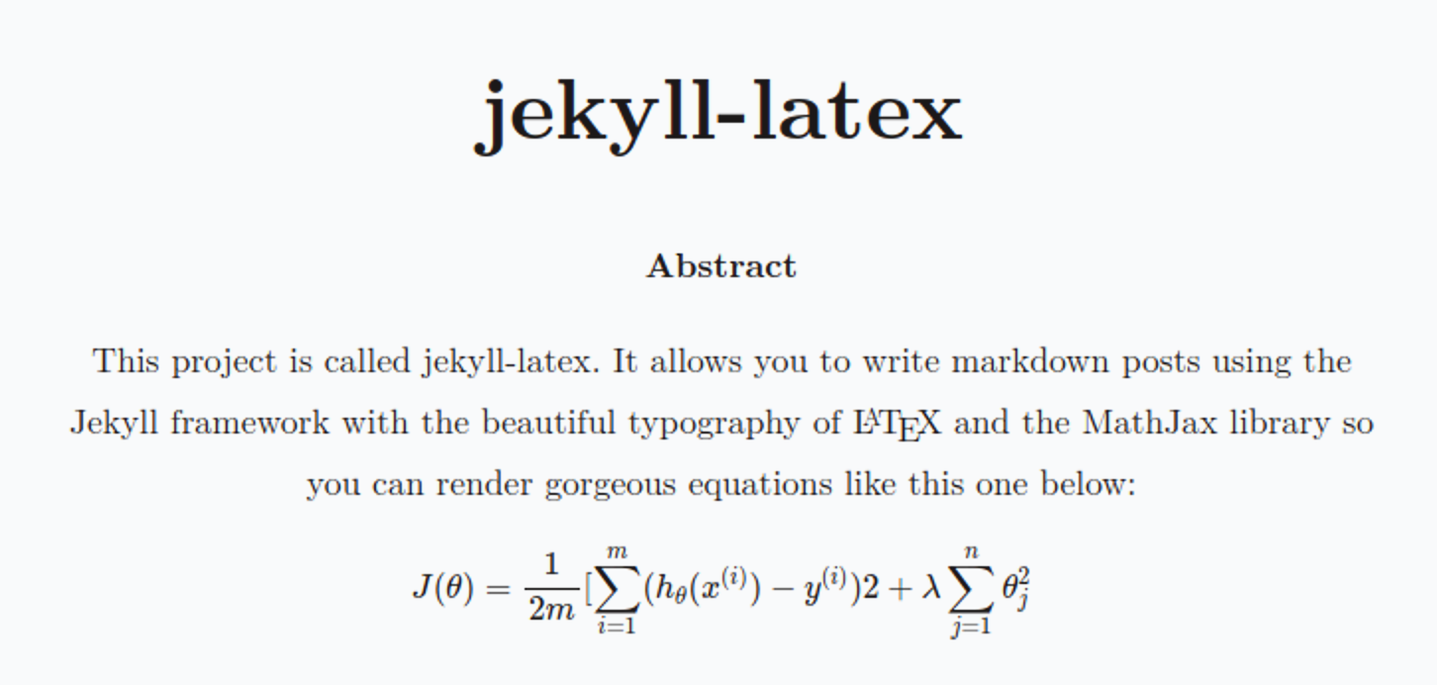
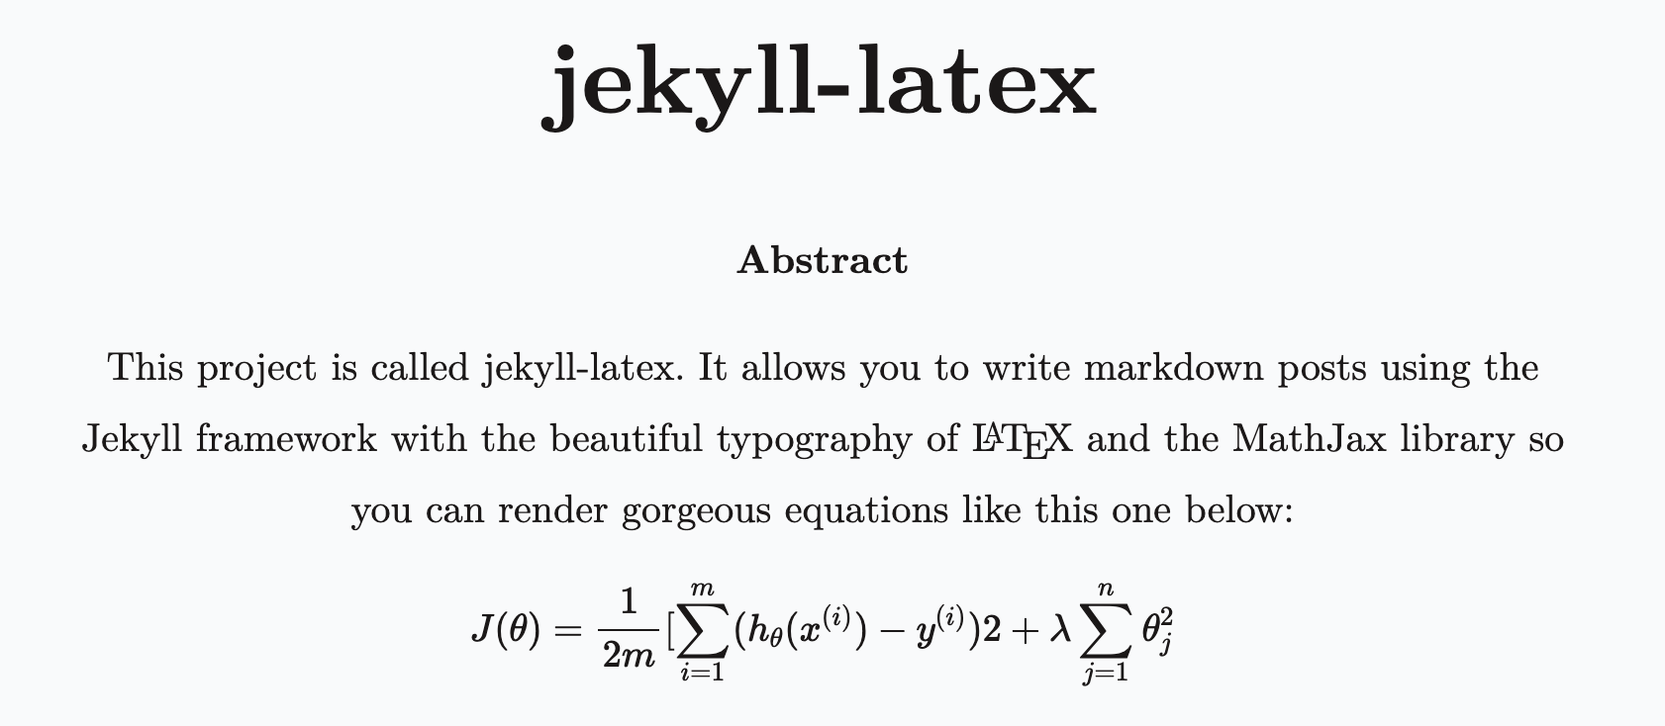
Update site

diff --git a/assets/core.css b/assets/core.css
@@ -3,4 +3,4 @@
  *
  * Source: https://github.com/vincentdoerig/latex-css
  * Licensed under MIT (https://github.com/vincentdoerig/latex-css/blob/master/LICENSE)
-*/@font-face{font-family:"Latin Modern";font-style:normal;font-weight:normal;font-display:swap;src:url("./fonts/LM-regular.woff2") format("woff2"),url("./fonts/LM-regular.woff") format("woff"),url("./fonts/LM-regular.ttf") format("truetype")}@font-face{font-family:"Latin Modern";font-style:italic;font-weight:normal;font-display:swap;src:url("./fonts/LM-italic.woff2") format("woff2"),url("./fonts/LM-italic.woff") format("woff"),url("./fonts/LM-italic.ttf") format("truetype")}@font-face{font-family:"Latin Modern";font-style:normal;font-weight:bold;font-display:swap;src:url("./fonts/LM-bold.woff2") format("woff2"),url("./fonts/LM-bold.woff") format("woff"),url("./fonts/LM-bold.ttf") format("truetype")}@font-face{font-family:"Latin Modern";font-style:italic;font-weight:bold;font-display:swap;src:url("./fonts/LM-bold-italic.woff2") format("woff2"),url("./fonts/LM-bold-italic.woff") format("woff"),url("./fonts/LM-bold-italic.ttf") format("truetype")}*,*::before,*::after{box-sizing:border-box}body,h1,h2,h3,h4,p,ul[class],ol[class],li,figure,figcaption,dl,dd{margin:0}html{font-size:1rem;scroll-behavior:smooth}body{font-family:"Latin Modern", Georgia, Cambria, "Times New Roman", Times, serif;line-height:1.8;max-width:80ch;min-height:100vh;overflow-x:hidden;margin:0 auto;padding:2rem 1.25rem;counter-reset:theorem;counter-reset:definition;color:#1b1818;background-color:#f9fafb;text-rendering:optimizeLegibility;display:flex;flex-direction:column;height:100%}main{flex:1 0 auto}p{text-align:justify;hyphens:auto;-webkit-hyphens:auto;-moz-hyphens:auto;margin-top:1rem}a:not([class]){text-decoration-skip-ink:auto}a,a:visited{color:#a00}a:focus{outline-offset:2px;outline:2px solid #1660f3}img{max-width:100%;display:block}input,button,textarea,select{font:inherit}textarea{width:100%}article>*+*{margin-top:1em}code,pre,kbd{font-family:Menlo, Monaco, Consolas, "Liberation Mono", "Courier New", monospace;font-size:85%}pre{padding:1rem 1.4rem;max-width:100%;overflow:auto;border-radius:4px;background:#e8edf2}pre code{font-size:95%;position:relative}kbd{background:#fff;border:1px solid #afb3b6;border-radius:2px;padding:2px 4px;font-size:75%}table{border-collapse:collapse;border-spacing:0;width:100%;max-width:100%}th,td{text-align:left;padding:0.5rem}td{border-bottom:1px solid #d9d9d9}thead th{border-bottom:2px solid #b3b3b3}tfoot th{border-top:2px solid #b3b3b3}h1:first-child{text-align:center}article .markdown-toc ol,article ul{counter-reset:item;padding-left:2rem}article .markdown-toc ol li,article ul li{display:block}article .markdown-toc ol li:before,article ul li:before{content:counters(item,".") " ";counter-increment:item;padding-right:0.85rem}dl dd{text-align:center}.theorem{counter-increment:theorem;display:block;margin:12px 0;font-style:italic}.theorem::before{content:"Theorem " counter(theorem) ". ";font-weight:bold;font-style:normal}.lemma{counter-increment:theorem;display:block;margin:12px 0;font-style:italic}.lemma::before{content:"Lemma " counter(theorem) ". ";font-weight:bold;font-style:normal}.proof{display:block;margin:12px 0;font-style:normal;position:relative}.proof::before{content:"Proof. " attr(title);font-style:italic}.proof:after{content:"◾";position:absolute;right:-12px;bottom:-2px}.definition{counter-increment:definition;display:block;margin:12px 0;font-style:normal}.definition::before{content:"Definition " counter(definition) ". ";font-weight:bold;font-style:normal}.author{margin:0.85rem 0;font-variant-caps:small-caps;text-align:center}.abstract,.abstract p{text-align:center}.abstract{margin:2.25rem 0}.latex span:nth-child(1){text-transform:uppercase;font-size:0.75em;vertical-align:0.28em;margin-left:-0.48em;margin-right:-0.15em;line-height:1ex}.latex span:nth-child(2){text-transform:uppercase;vertical-align:-0.5ex;margin-left:-0.1667em;margin-right:-0.125em;line-height:1ex}h1{font-size:2.5rem;line-height:3.25rem;margin-bottom:1.625rem}h2{font-size:1.7rem;line-height:2rem;margin-top:3rem}h3{font-size:1.4rem;margin-top:2.5rem}h4{font-size:1.2rem;margin-top:2rem}h5{font-size:1rem;margin-top:1.8rem}h6{font-size:1rem;font-style:italic;font-weight:normal;margin-top:2.5rem}h3,h4,h5,h6{line-height:1.625rem}h1+h2{margin-top:1.625rem}h2+h3,h3+h4,h4+h5{margin-top:0.8rem}h5+h6{margin-top:-0.8rem}h2,h3,h4,h5,h6{margin-bottom:0.8rem}.logo{position:relative;margin:0 auto 35px;text-align:center;animation-duration:0.7s;animation-fill-mode:both;animation-name:bounce;-webkit-animation-duration:0.7s;-webkit-animation-fill-mode:both;-webkit-animation-name:bounce}.logo a{background:#ddd url("gravatar_wrapper.png");color:#000;text-decoration:none;font-weight:700;height:100px;width:100px;font-size:1.5em;border-radius:100%;display:inline-block;text-align:center;line-height:100px;border:5px solid #fff;box-sizing:border-box}.logo a:hover,.logo a:focus{background:#f14e32}.logo a:hover+.logo-prompt,.logo a:focus+.logo-prompt{display:inline-block !important}.logo a .gravatar{margin:5px auto;-webkit-border-radius:50%;-moz-border-radius:50%;border-radius:50%}@media (max-width: 480px){.logo a:hover+.logo-prompt,.logo a:focus+.logo-prompt{display:none !important}}.logo .logo-prompt{position:absolute;display:none;vertical-align:middle;padding:5px;border-radius:3px;background:#666;background:rgba(0,0,0,0.5);margin-left:15px;color:#fff;font-size:0.8235em;text-align:center;line-height:1.2;top:50%;margin-top:-10px}.logo .logo-prompt:before{content:"";border-width:5px 5px 5px 0;border-style:solid;border-color:transparent #666;border-color:transparent rgba(0,0,0,0.5);position:absolute;top:50%;left:-5px;margin-top:-5px}section{max-width:500px;margin:0 auto 50px auto}section ul{list-style:none;margin:0;padding:0}section ul li{margin:25px 0}section ul li .title{max-width:100%;word-wrap:normal !important}section ul li a{text-decoration:none;border:0;color:#000;box-sizing:border-box}section ul li .post-date{float:right;margin:0 0 0 20px}section ul li span{display:inline-block;color:#757575;letter-spacing:1px;text-transform:uppercase}@media (min-width: 992px){section ul li a{border-bottom:2px solid transparent}section ul li a:hover{border-color:#000}}iframe{margin:45px 0 !important}ul,ol{padding-left:50px}ul li,ol li{word-wrap:break-word}ul img,ol img{margin:40px 0;border-radius:5px}sup{vertical-align:top;position:relative;top:-0.5em;margin-left:1px}time{color:#555}iframe{width:100%}mark{background:#fffc76;padding:0 5px}.page-navigation,.footer{text-align:center;max-width:500px;margin:0 auto;font-size:1rem}.page-navigation{margin:50px auto 0 auto}.page-navigation a{display:inline-block;text-decoration:none;border-bottom:none}.page-navigation span{display:inline-block}.footer{margin-top:50px;color:#777}.footer a{border:none;font-weight:bold}@keyframes bounce{0%{transform:translate3d(0, -1000px, 0)}60%{transform:translate3d(0, 25px, 0)}75%{transform:translate3d(0, -10px, 0)}90%{transform:translate3d(0, 5px, 0)}100%{transform:none}}@-webkit-keyframes bounce{0%{-webkit-transform:translate3d(0, -1000px, 0)}60%{-webkit-transform:translate3d(0, 25px, 0)}75%{-webkit-transform:translate3d(0, -10px, 0)}90%{-webkit-transform:translate3d(0, 5px, 0)}100%{-webkit-transform:none}}.highlight{margin:40px 0}.highlight .c{color:#998;font-style:italic}.highlight .err{color:#a61717;background-color:#e3d2d2}.highlight .k{font-weight:bold}.highlight .o{font-weight:bold}.highlight .cm{color:#998;font-style:italic}.highlight .cp{color:#999;font-weight:bold}.highlight .c1{color:#998;font-style:italic}.highlight .cs{color:#999;font-weight:bold;font-style:italic}.highlight .gd{color:#000;background-color:#fdd}.highlight .gd .x{color:#000;background-color:#faa}.highlight .ge{font-style:italic}.highlight .gr{color:#a00}.highlight .gh{color:#999}.highlight .gi{color:#000;background-color:#dfd}.highlight .gi .x{color:#000;background-color:#afa}.highlight .go{color:#888}.highlight .gp{color:#555}.highlight .gs{font-weight:bold}.highlight .gu{color:#aaa}.highlight .gt{color:#a00}.highlight .kc{font-weight:bold}.highlight .kd{font-weight:bold}.highlight .kp{font-weight:bold}.highlight .kr{font-weight:bold}.highlight .kt{color:#458;font-weight:bold}.highlight .m{color:#099}.highlight .s{color:#d14}.highlight .na{color:#008080}.highlight .nb{color:#0086b3}.highlight .nc{color:#458;font-weight:bold}.highlight .no{color:#008080}.highlight .ni{color:#800080}.highlight .ne{color:#900;font-weight:bold}.highlight .nf{color:#900;font-weight:bold}.highlight .nn{color:#555}.highlight .nt{color:#000080}.highlight .nv{color:#008080}.highlight .ow{font-weight:bold}.highlight .w{color:#bbb}.highlight .mf{color:#099}.highlight .mh{color:#099}.highlight .mi{color:#099}.highlight .mo{color:#099}.highlight .sb{color:#d14}.highlight .sc{color:#d14}.highlight .sd{color:#d14}.highlight .s2{color:#d14}.highlight .se{color:#d14}.highlight .sh{color:#d14}.highlight .si{color:#d14}.highlight .sx{color:#d14}.highlight .sr{color:#009926}.highlight .s1{color:#d14}.highlight .ss{color:#990073}.highlight .bp{color:#999}.highlight .vc{color:#008080}.highlight .vg{color:#008080}.highlight .vi{color:#008080}.highlight .il{color:#099}
+*/@font-face{font-family:'Latin Modern';font-style:normal;font-weight:normal;font-display:swap;src:url("./fonts/LM-regular.woff2") format("woff2"),url("./fonts/LM-regular.woff") format("woff"),url("./fonts/LM-regular.ttf") format("truetype")}@font-face{font-family:'Latin Modern';font-style:italic;font-weight:normal;font-display:swap;src:url("./fonts/LM-italic.woff2") format("woff2"),url("./fonts/LM-italic.woff") format("woff"),url("./fonts/LM-italic.ttf") format("truetype")}@font-face{font-family:'Latin Modern';font-style:normal;font-weight:bold;font-display:swap;src:url("./fonts/LM-bold.woff2") format("woff2"),url("./fonts/LM-bold.woff") format("woff"),url("./fonts/LM-bold.ttf") format("truetype")}@font-face{font-family:'Latin Modern';font-style:italic;font-weight:bold;font-display:swap;src:url("./fonts/LM-bold-italic.woff2") format("woff2"),url("./fonts/LM-bold-italic.woff") format("woff"),url("./fonts/LM-bold-italic.ttf") format("truetype")}@font-face{font-family:'Libertinus';font-style:normal;font-weight:normal;font-display:swap;src:url("./fonts/Libertinus-regular.woff2") format("woff2")}@font-face{font-family:'Libertinus';font-style:italic;font-weight:normal;font-display:swap;src:url("./fonts/Libertinus-italic.woff2") format("woff2")}@font-face{font-family:'Libertinus';font-style:normal;font-weight:bold;font-display:swap;src:url("./fonts/Libertinus-bold.woff2") format("woff2")}@font-face{font-family:'Libertinus';font-style:italic;font-weight:bold;font-display:swap;src:url("./fonts/Libertinus-bold-italic.woff2") format("woff2")}@font-face{font-family:'Libertinus';font-style:normal;font-weight:600;font-display:swap;src:url("./fonts/Libertinus-semibold.woff2") format("woff2")}@font-face{font-family:'Libertinus';font-style:italic;font-weight:600;font-display:swap;src:url("./fonts/Libertinus-semibold-italic.woff2") format("woff2")}*,*::before,*::after{box-sizing:border-box}:root{--body-color: hsl(0, 5%, 10%);--body-bg-color: hsl(210, 20%, 98%);--link-visited: hsl(0, 100%, 33%);--link-focus-outline: hsl(220, 90%, 52%);--pre-bg-color: hsl(210, 28%, 93%);--kbd-bg-color: hsl(210, 5%, 100%);--kbd-border-color: hsl(210, 5%, 70%);--table-border-color: black;--sidenote-target-border-color: hsl(55, 55%, 70%);--footnotes-border-color: hsl(0, 0%, 39%);--text-indent-size: 1.463rem}.latex-dark{--body-color: hsl(0, 0%, 86%);--body-bg-color: hsl(0, 0%, 16%);--link-visited: hsl(196 80% 77%);--link-focus-outline: hsl(215, 63%, 73%);--pre-bg-color: hsl(0, 1%, 25%);--kbd-bg-color: hsl(0, 0%, 16%);--kbd-border-color: hsl(210, 5%, 70%);--table-border-color: white;--sidenote-target-border-color: hsl(0, 0%, 59%);--footnotes-border-color: hsl(0, 0%, 59%);--proof-symbol-filter: invert(80%)}@media (prefers-color-scheme: dark){.latex-dark-auto{--body-color: hsl(0, 0%, 86%);--body-bg-color: hsl(0, 0%, 16%);--link-visited: hsl(196 80% 77%);--link-focus-outline: hsl(215, 63%, 73%);--pre-bg-color: hsl(0, 1%, 25%);--kbd-bg-color: hsl(0, 0%, 16%);--kbd-border-color: hsl(210, 5%, 70%);--table-border-color: white;--sidenote-target-border-color: hsl(0, 0%, 59%);--footnotes-border-color: hsl(0, 0%, 59%);--proof-symbol-filter: invert(80%)}}body,h1,h2,h3,h4,p,ul[class],ol[class],li,figure,figcaption,dl,dd{margin:0}html{font-size:1rem}@media (prefers-reduced-motion: no-preference){html{scroll-behavior:smooth}}body.libertinus{font-family:'Libertinus', Georgia, Cambria, 'Times New Roman', Times, serif}body{font-family:'Latin Modern', Georgia, Cambria, 'Times New Roman', Times, serif;line-height:1.8;max-width:80ch;min-height:100vh;overflow-x:hidden;margin:0 auto;padding:2rem 1.25rem;counter-reset:theorem definition sidenote-counter;color:var(--body-color);background-color:var(--body-bg-color);text-rendering:optimizeLegibility}p{text-align:justify;hyphens:auto;-webkit-hyphens:auto;-moz-hyphens:auto;margin-top:1rem}.indent-pars p{text-indent:var(--text-indent-size)}.indent-pars p.no-indent,p.no-indent{text-indent:0}.indent-pars ol p,.indent-pars ul p{text-indent:0}.indent-pars h2+p,.indent-pars h3+p,.indent-pars h4+p{text-indent:0}a:not([class]){text-decoration-skip-ink:auto}a,a:visited{color:var(--link-visited)}a:focus{outline-offset:2px;outline:2px solid var(--link-focus-outline)}img{max-width:100%;height:auto;display:block}input,button,textarea,select{font:inherit}textarea{width:100%}article>*+*{margin-top:1em}code,pre,kbd{font-family:Menlo, Monaco, Consolas, 'Liberation Mono', 'Courier New', monospace;font-size:85%}pre{padding:1rem 1.4rem;max-width:100%;overflow:auto;border-radius:4px;background:var(--pre-bg-color)}pre code{font-size:95%;position:relative}kbd{background:var(--kbd-bg-color);border:1px solid var(--kbd-border-color);border-radius:2px;padding:2px 4px;font-size:75%}table{border-collapse:collapse;border-spacing:0;width:auto;max-width:100%;border-top:2.27px solid var(--table-border-color);border-bottom:2.27px solid var(--table-border-color);overflow-x:auto;counter-increment:caption}table tr>th[scope='col']{border-bottom:1.36px solid var(--table-border-color)}table tr>th[scope='row']{border-right:1.36px solid var(--table-border-color)}table>tbody>tr:first-child>td,table>tbody>tr:first-child>th{border-top:1.36px solid var(--table-border-color)}table>tbody>tr:last-child>td,table>tbody>tr:last-child>th{border-bottom:1.36px solid var(--table-border-color)}th,td{text-align:left;padding:0.5rem;line-height:1.1}caption{text-align:left;font-size:0.923em;padding:0 0.25em 0.25em;width:100%;margin-left:0}caption::before{content:"Table " counter(caption) ". ";font-weight:bold}.scroll-wrapper{overflow-x:auto}.scroll-wrapper>table td{white-space:nowrap}h1:first-child{text-align:center}nav ol{counter-reset:item;padding-left:2rem}nav li{display:block}nav li:before{content:counters(item,".") " ";counter-increment:item;padding-right:0.85rem}dl dd{text-align:center}.theorem{counter-increment:theorem;display:block;margin:12px 0;font-style:italic}.theorem::before{content:"Theorem " counter(theorem) ". ";font-weight:bold;font-style:normal}.lemma{counter-increment:theorem;display:block;margin:12px 0;font-style:italic}.lemma::before{content:"Lemma " counter(theorem) ". ";font-weight:bold;font-style:normal}.proof{display:block;margin:12px 0;font-style:normal;position:relative}.proof::before{content:"Proof. " attr(title);font-style:italic}.proof:after{content:'◾';filter:var(--proof-symbol-filter);position:absolute;right:-12px;bottom:-2px}.definition{counter-increment:definition;display:block;margin:12px 0;font-style:normal}.definition::before{content:"Definition " counter(definition) ". ";font-weight:bold;font-style:normal}.author{margin:0.85rem 0;font-variant-caps:small-caps;text-align:center}.sidenote{font-size:0.8rem;float:right;clear:right;width:18vw;margin-right:-20vw;margin-bottom:1em;text-indent:0}.sidenote.left{float:left;margin-left:-20vw;margin-bottom:1em;text-indent:0}.sidenote:target{border:var(--sidenote-target-border-color) 1.5px solid;padding:0 .5rem;scroll-margin-block-start:10rem}.sidenote-number{counter-increment:sidenote-counter}.sidenote-number::after,.sidenote::before{position:relative;vertical-align:baseline}.sidenote-number::after{content:counter(sidenote-counter);font-size:0.7rem;top:-0.5rem;left:0.1rem}.sidenote-number ~ .sidenote::before{content:counter(sidenote-counter) " ";font-size:0.7rem;top:-0.5rem}label.sidenote-toggle:not(.sidenote-number){display:none}blockquote .sidenote{margin-right:-24vw;width:18vw}label.sidenote-toggle{display:inline;cursor:pointer}input.sidenote-toggle{display:none}@media (max-width: 1050px){label.sidenote-toggle:not(.sidenote-number){display:inline}.sidenote{display:none}.sidenote-toggle:checked+.sidenote{display:block;margin:0.5rem 1.25rem 1rem 0.5rem;float:left;left:1rem;clear:both;width:95%}blockquote .sidenote{margin-right:-25vw;width:16vw}}.footnotes p{text-align:left;line-height:1.5;font-size:85%;margin-bottom:0.4rem}.footnotes{border-top:1px solid var(--footnotes-border-color)}.abstract,.abstract p{text-align:center;margin-top:0}.abstract{margin:2.25rem 0}.abstract>h2{font-size:1rem;margin-bottom:-0.2rem}.latex span:nth-child(1){text-transform:uppercase;font-size:0.75em;vertical-align:0.28em;margin-left:-0.48em;margin-right:-0.15em;line-height:1ex}.latex span:nth-child(2){text-transform:uppercase;vertical-align:-0.5ex;margin-left:-0.1667em;margin-right:-0.125em;line-height:1ex}h1{font-size:2.5rem;line-height:3.25rem;margin-bottom:1.625rem}h2{font-size:1.7rem;line-height:2rem;margin-top:3rem}h3{font-size:1.4rem;margin-top:2.5rem}h4{font-size:1.2rem;margin-top:2rem}h5{font-size:1rem;margin-top:1.8rem}h6{font-size:1rem;font-style:italic;font-weight:normal;margin-top:2.5rem}h3,h4,h5,h6{line-height:1.625rem}h1+h2{margin-top:1.625rem}h2+h3,h3+h4,h4+h5{margin-top:0.8rem}h5+h6{margin-top:-0.8rem}h2,h3,h4,h5,h6{margin-bottom:0.8rem}.highlight{margin:40px 0}.highlight .c{color:#998;font-style:italic}.highlight .err{color:#a61717;background-color:#e3d2d2}.highlight .k{font-weight:bold}.highlight .o{font-weight:bold}.highlight .cm{color:#998;font-style:italic}.highlight .cp{color:#999;font-weight:bold}.highlight .c1{color:#998;font-style:italic}.highlight .cs{color:#999;font-weight:bold;font-style:italic}.highlight .gd{color:#000;background-color:#fdd}.highlight .gd .x{color:#000;background-color:#faa}.highlight .ge{font-style:italic}.highlight .gr{color:#a00}.highlight .gh{color:#999}.highlight .gi{color:#000;background-color:#dfd}.highlight .gi .x{color:#000;background-color:#afa}.highlight .go{color:#888}.highlight .gp{color:#555}.highlight .gs{font-weight:bold}.highlight .gu{color:#aaa}.highlight .gt{color:#a00}.highlight .kc{font-weight:bold}.highlight .kd{font-weight:bold}.highlight .kp{font-weight:bold}.highlight .kr{font-weight:bold}.highlight .kt{color:#458;font-weight:bold}.highlight .m{color:#099}.highlight .s{color:#d14}.highlight .na{color:#008080}.highlight .nb{color:#0086b3}.highlight .nc{color:#458;font-weight:bold}.highlight .no{color:#008080}.highlight .ni{color:#800080}.highlight .ne{color:#900;font-weight:bold}.highlight .nf{color:#900;font-weight:bold}.highlight .nn{color:#555}.highlight .nt{color:#000080}.highlight .nv{color:#008080}.highlight .ow{font-weight:bold}.highlight .w{color:#bbb}.highlight .mf{color:#099}.highlight .mh{color:#099}.highlight .mi{color:#099}.highlight .mo{color:#099}.highlight .sb{color:#d14}.highlight .sc{color:#d14}.highlight .sd{color:#d14}.highlight .s2{color:#d14}.highlight .se{color:#d14}.highlight .sh{color:#d14}.highlight .si{color:#d14}.highlight .sx{color:#d14}.highlight .sr{color:#009926}.highlight .s1{color:#d14}.highlight .ss{color:#990073}.highlight .bp{color:#999}.highlight .vc{color:#008080}.highlight .vg{color:#008080}.highlight .vi{color:#008080}.highlight .il{color:#099}html{font-size:1.2rem;scroll-behavior:smooth}body{font-family:"Latin Modern", Georgia, Cambria, "Times New Roman", Times, serif;line-height:1.8;max-width:80ch;min-height:100vh;overflow-x:hidden;margin:0 auto;padding:2rem 1.25rem;counter-reset:theorem;counter-reset:definition;text-rendering:optimizeLegibility;display:flex;flex-direction:column;height:100%}main{flex:1 0 auto}p{text-align:justify;hyphens:auto;-webkit-hyphens:auto;-moz-hyphens:auto;margin-top:1rem}h1{font-size:2.5rem;line-height:3.25rem;margin-bottom:1.625rem}h2{font-size:1.7rem;line-height:2rem;margin-top:3rem}h3{font-size:1.4rem;margin-top:2.5rem}h4{font-size:1.2rem;margin-top:2rem}h5{font-size:1rem;margin-top:1.8rem}h6{font-size:1rem;font-style:italic;font-weight:normal;margin-top:2.5rem}h3,h4,h5,h6{line-height:1.625rem}h1+h2{margin-top:1.625rem}h2+h3,h3+h4,h4+h5{margin-top:0.8rem}h5+h6{margin-top:-0.8rem}h2,h3,h4,h5,h6{margin-bottom:0.8rem}.logo{position:relative;margin:0 auto 35px;text-align:center;animation-duration:0.7s;animation-fill-mode:both;animation-name:bounce;-webkit-animation-duration:0.7s;-webkit-animation-fill-mode:both;-webkit-animation-name:bounce}.logo a{background:#ddd url("gravatar_wrapper.png");color:#000;text-decoration:none;font-weight:700;height:100px;width:100px;font-size:1.5em;border-radius:100%;display:inline-block;text-align:center;line-height:100px;border:5px solid #fff;box-sizing:border-box}.logo a:hover,.logo a:focus{background:#f14e32}.logo a:hover+.logo-prompt,.logo a:focus+.logo-prompt{display:inline-block !important}.logo a .gravatar{margin:5px auto;-webkit-border-radius:50%;-moz-border-radius:50%;border-radius:50%}@media (max-width: 480px){.logo a:hover+.logo-prompt,.logo a:focus+.logo-prompt{display:none !important}}.logo .logo-prompt{position:absolute;display:none;vertical-align:middle;padding:5px;border-radius:3px;background:#666;background:rgba(0,0,0,0.5);margin-left:15px;color:#fff;font-size:0.8235em;text-align:center;line-height:1.2;top:50%;margin-top:-10px}.logo .logo-prompt:before{content:"";border-width:5px 5px 5px 0;border-style:solid;border-color:transparent #666;border-color:transparent rgba(0,0,0,0.5);position:absolute;top:50%;left:-5px;margin-top:-5px}.page-navigation,.footer{text-align:center;max-width:500px;margin:0 auto;font-size:1rem}.page-navigation{margin:50px auto 0 auto}.page-navigation a{display:inline-block;text-decoration:none;border-bottom:none}.page-navigation span{display:inline-block}.footer{margin-top:50px;color:#777}.footer a{border:none;font-weight:bold}section{max-width:500px;margin:0 auto 50px auto}section ul{list-style:none;margin:0;padding:0}section ul li{margin:25px 0}section ul li .title{max-width:100%;word-wrap:normal !important}section ul li a{text-decoration:none;border:0;color:#000;box-sizing:border-box}section ul li .post-date{float:right;margin:0 0 0 20px}section ul li span{display:inline-block;color:#757575;letter-spacing:1px;text-transform:uppercase}@media (min-width: 992px){section ul li a{border-bottom:2px solid transparent}section ul li a:hover{border-color:#000}}kbd{border:1px solid #afb3b6;border-radius:2px;padding:2px 4px;font-size:75%}table{border-collapse:collapse;border-spacing:0;width:100%;max-width:100%}th,td{text-align:left;padding:0.5rem}td{border-bottom:1px solid #d9d9d9}thead th{border-bottom:2px solid #b3b3b3}tfoot th{border-top:2px solid #b3b3b3}a:focus{outline-offset:2px;outline:2px solid #1660f3}textarea{width:100%}pre{padding:1rem 1.4rem;max-width:100%;overflow:auto;border-radius:4px}article .markdown-toc ol,article ul{counter-reset:item;padding-left:2rem}article .markdown-toc ol li,article ul li{display:block}article .markdown-toc ol li:before,article ul li:before{content:counters(item,".") " ";counter-increment:item;padding-right:0.85rem}

diff --git a/posts/what-is-jekyll-latex.html b/posts/what-is-jekyll-latex.html
@@ -18,11 +18,11 @@
     <meta name="google-site-verification" content="abc123">
 
 
-<link rel="icon" href="https://yoursite.com/assets/favicon.png">
-<link rel="apple-touch-icon" href="https://yoursite.com/assets/touch-icon.png">
-<link rel="stylesheet" href="https://yoursite.com/assets/core.css">
-<link rel="canonical" href="https://yoursite.com/posts/what-is-jekyll-latex">
-<link rel="alternate" type="application/atom+xml" title="Jekyll Latex" href="https://yoursite.com/feed.xml"/>
+<link rel="icon" href="https://ryanmcdermott.me/jekyll-latex/assets/favicon.png">
+<link rel="apple-touch-icon" href="https://ryanmcdermott.me/jekyll-latex/assets/touch-icon.png">
+<link rel="stylesheet" href="https://ryanmcdermott.me/jekyll-latex/assets/core.css">
+<link rel="canonical" href="https://ryanmcdermott.me/jekyll-latex/posts/what-is-jekyll-latex">
+<link rel="alternate" type="application/atom+xml" title="Jekyll Latex" href="https://ryanmcdermott.me/jekyll-latex/feed.xml"/>
 
 
 
@@ -38,11 +38,11 @@
 
 </head>
 
-<body>
+<body class="latex-dark">
 	<aside class="logo">
     
 
-    <a href="/">
+    <a href="https://ryanmcdermott.me/jekyll-latex/">
         <img class="gravatar" src="https://www.gravatar.com/avatar/e98e5de03e97f8498caab87e85a43f9a.png?s=80">
     </a>
     <span class="logo-prompt">Back to Home</span>
@@ -70,7 +70,7 @@ $$ J(\theta) =\frac{1}{2m}
 y^{(i)})2 + \lambda\sum^n_{j=1}\theta^2_j $$
 </p></div>
 
-<div class="highlighter-rouge"><div class="highlight"><pre class="highlight"><code>
+<div class="language-plaintext highlighter-rouge"><div class="highlight"><pre class="highlight"><code>
 {% abstract %}
 This project is called jekyll-latex. It features the beautiful
 typography of &lt;span class="latex"&gt;L&lt;span&gt;a&lt;/span&gt;T&lt;span&gt;
@@ -102,7 +102,7 @@ y^{(i)})2 + \lambda\sum^n_{j=1}\theta^2_j $$
   </li>
 </ul>
 
-<div class="highlighter-rouge"><div class="highlight"><pre class="highlight"><code>
+<div class="language-plaintext highlighter-rouge"><div class="highlight"><pre class="highlight"><code>
 # Table of Contents
 * TOC
 {:toc}
@@ -159,7 +159,7 @@ with $\bar{c}_{i} \neq c_{i}(i)$. Obviously $C(n) \neq x$ for all $n \in
 
 <p>This sentence is <strong>bold</strong>. This sentence is <em>italic</em>. <small>Small</small> text is for fine print. Your copy can also be <sub>subscripted</sub> and <sup>superscripted</sup>, <ins>inserted</ins>, <del>deleted</del>, or <mark>highlighted</mark>. You would use a <a href="https://github.com/ryanmcdermott/jekyll-latex">hyperlink</a> to go to a new page. Keyboard input elements like <kbd>Cmd + Shift</kbd> are used to display textual user input.</p>
 
-<div class="highlighter-rouge"><div class="highlight"><pre class="highlight"><code>This sentence is **bold**. This sentence is *italic*.
+<div class="language-plaintext highlighter-rouge"><div class="highlight"><pre class="highlight"><code>This sentence is **bold**. This sentence is *italic*.
 &lt;small&gt;Small&lt;/small&gt; text is for fine print. Your
 copy can also be &lt;sub&gt;subscripted&lt;/sub&gt; and
 &lt;sup&gt;superscripted&lt;/sup&gt;, &lt;ins&gt;inserted&lt;/ins&gt;,
@@ -251,7 +251,7 @@ sharpening the axe.
     <figcaption>Mountain landscape by John Towner.</figcaption>
 </figure>
 
-<div class="highlighter-rouge"><div class="highlight"><pre class="highlight"><code>
+<div class="language-plaintext highlighter-rouge"><div class="highlight"><pre class="highlight"><code>
 {% include image.html
     url="/assets/latex_image_example.jpeg"
     description="Mountain landscape by John Towner."
@@ -276,7 +276,7 @@ sharpening the axe.
   <li>List Item 3</li>
 </ol>
 
-<div class="highlighter-rouge"><div class="highlight"><pre class="highlight"><code>
+<div class="language-plaintext highlighter-rouge"><div class="highlight"><pre class="highlight"><code>
 ### Unordered List
 - List Item 1
 - List Item 2
@@ -295,14 +295,14 @@ sharpening the axe.
 
 <div class="page-navigation">
     
-    <a class="home" href="https://yoursite.com" title="Back to Homepage">Home</a>
+    <a class="home" href="https://ryanmcdermott.me/jekyll-latex" title="Back to Homepage">Home</a>
     
 </div>
 	</main>
 
 	<div class="footer">
     <span class="block">&copy;
-        2020
+        2023
         John Doe</span>
 </div>
 

diff --git a/index.html b/index.html
@@ -16,11 +16,11 @@
     <meta name="google-site-verification" content="abc123">
 
 
-<link rel="icon" href="https://yoursite.com/assets/favicon.png">
-<link rel="apple-touch-icon" href="https://yoursite.com/assets/touch-icon.png">
-<link rel="stylesheet" href="https://yoursite.com/assets/core.css">
-<link rel="canonical" href="https://yoursite.com/">
-<link rel="alternate" type="application/atom+xml" title="Jekyll Latex" href="https://yoursite.com/feed.xml"/>
+<link rel="icon" href="https://ryanmcdermott.me/jekyll-latex/assets/favicon.png">
+<link rel="apple-touch-icon" href="https://ryanmcdermott.me/jekyll-latex/assets/touch-icon.png">
+<link rel="stylesheet" href="https://ryanmcdermott.me/jekyll-latex/assets/core.css">
+<link rel="canonical" href="https://ryanmcdermott.me/jekyll-latex/">
+<link rel="alternate" type="application/atom+xml" title="Jekyll Latex" href="https://ryanmcdermott.me/jekyll-latex/feed.xml"/>
 
 
 
@@ -36,11 +36,11 @@
 
 </head>
 
-<body>
+<body class="latex-dark">
 	<aside class="logo">
     
 
-    <a href="/about">
+    <a href="https://ryanmcdermott.me/jekyll-latex/about">
         <img class="gravatar" src="https://www.gravatar.com/avatar/e98e5de03e97f8498caab87e85a43f9a.png?s=80">
     </a>
     <span class="logo-prompt">About the Author</span>
@@ -60,7 +60,7 @@
 				<span>May 25</span>
 			</div>
 			<div class="title">
-				<a href="https://yoursite.com/posts/what-is-jekyll-latex">What Is jekyll-latex?</a>
+				<a href="https://ryanmcdermott.me/jekyll-latex/posts/what-is-jekyll-latex">What Is jekyll-latex?</a>
 			</div>
 		</li>
 	</ul>
@@ -72,7 +72,7 @@
 
 	<div class="footer">
     <span class="block">&copy;
-        2020
+        2023
         John Doe</span>
 </div>
 

diff --git a/about.html b/about.html
@@ -18,11 +18,11 @@
     <meta name="google-site-verification" content="abc123">
 
 
-<link rel="icon" href="https://yoursite.com/assets/favicon.png">
-<link rel="apple-touch-icon" href="https://yoursite.com/assets/touch-icon.png">
-<link rel="stylesheet" href="https://yoursite.com/assets/core.css">
-<link rel="canonical" href="https://yoursite.com/about">
-<link rel="alternate" type="application/atom+xml" title="Jekyll Latex" href="https://yoursite.com/feed.xml"/>
+<link rel="icon" href="https://ryanmcdermott.me/jekyll-latex/assets/favicon.png">
+<link rel="apple-touch-icon" href="https://ryanmcdermott.me/jekyll-latex/assets/touch-icon.png">
+<link rel="stylesheet" href="https://ryanmcdermott.me/jekyll-latex/assets/core.css">
+<link rel="canonical" href="https://ryanmcdermott.me/jekyll-latex/about">
+<link rel="alternate" type="application/atom+xml" title="Jekyll Latex" href="https://ryanmcdermott.me/jekyll-latex/feed.xml"/>
 
 
 
@@ -38,11 +38,11 @@
 
 </head>
 
-<body>
+<body class="latex-dark">
 	<aside class="logo">
     
 
-    <a href="/">
+    <a href="https://ryanmcdermott.me/jekyll-latex/">
         <img class="gravatar" src="https://www.gravatar.com/avatar/e98e5de03e97f8498caab87e85a43f9a.png?s=80">
     </a>
     <span class="logo-prompt">Back to Home</span>
@@ -61,13 +61,13 @@
 </article>
 
 <div class="page-navigation">
-    <a class="home" href="https://yoursite.com" title="Back to Homepage">Home</a>
+    <a class="home" href="https://ryanmcdermott.me/jekyll-latex" title="Back to Homepage">Home</a>
 </div>
 	</main>
 
 	<div class="footer">
     <span class="block">&copy;
-        2020
+        2023
         John Doe</span>
 </div>
 

diff --git a/404.html b/404.html
@@ -18,11 +18,11 @@
     <meta name="google-site-verification" content="abc123">
 
 
-<link rel="icon" href="https://yoursite.com/assets/favicon.png">
-<link rel="apple-touch-icon" href="https://yoursite.com/assets/touch-icon.png">
-<link rel="stylesheet" href="https://yoursite.com/assets/core.css">
-<link rel="canonical" href="https://yoursite.com/404">
-<link rel="alternate" type="application/atom+xml" title="Jekyll Latex" href="https://yoursite.com/feed.xml"/>
+<link rel="icon" href="https://ryanmcdermott.me/jekyll-latex/assets/favicon.png">
+<link rel="apple-touch-icon" href="https://ryanmcdermott.me/jekyll-latex/assets/touch-icon.png">
+<link rel="stylesheet" href="https://ryanmcdermott.me/jekyll-latex/assets/core.css">
+<link rel="canonical" href="https://ryanmcdermott.me/jekyll-latex/404">
+<link rel="alternate" type="application/atom+xml" title="Jekyll Latex" href="https://ryanmcdermott.me/jekyll-latex/feed.xml"/>
 
 
 
@@ -38,11 +38,11 @@
 
 </head>
 
-<body>
+<body class="latex-dark">
 	<aside class="logo">
     
 
-    <a href="/">
+    <a href="https://ryanmcdermott.me/jekyll-latex/">
         <img class="gravatar" src="https://www.gravatar.com/avatar/e98e5de03e97f8498caab87e85a43f9a.png?s=80">
     </a>
     <span class="logo-prompt">Back to Home</span>
@@ -61,13 +61,13 @@
 </article>
 
 <div class="page-navigation">
-    <a class="home" href="https://yoursite.com" title="Back to Homepage">Home</a>
+    <a class="home" href="https://ryanmcdermott.me/jekyll-latex" title="Back to Homepage">Home</a>
 </div>
 	</main>
 
 	<div class="footer">
     <span class="block">&copy;
-        2020
+        2023
         John Doe</span>
 </div>
 
